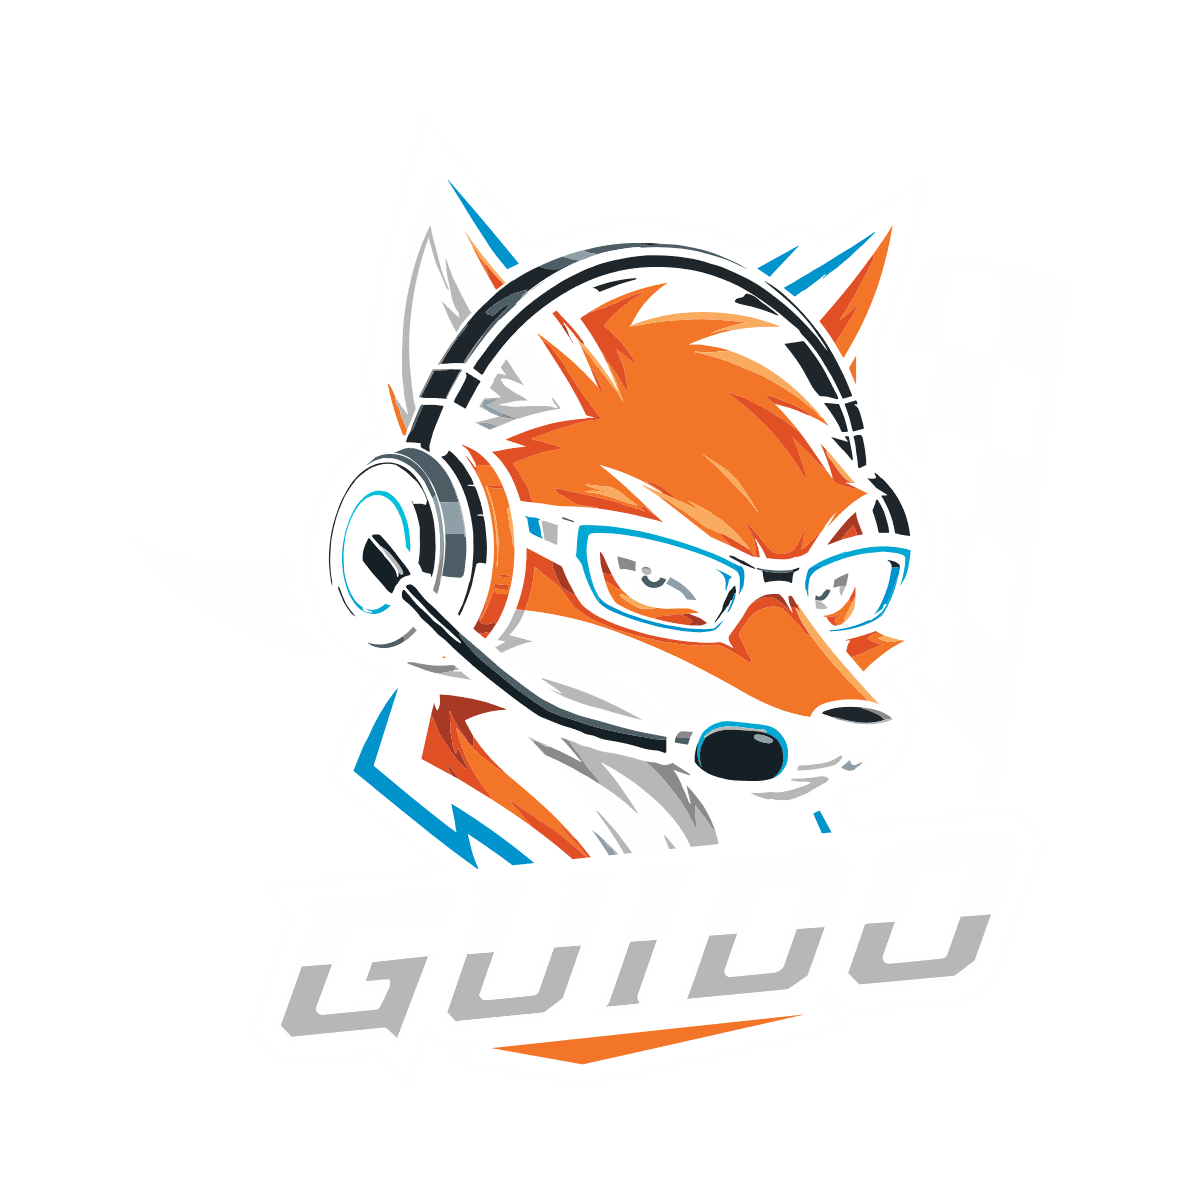
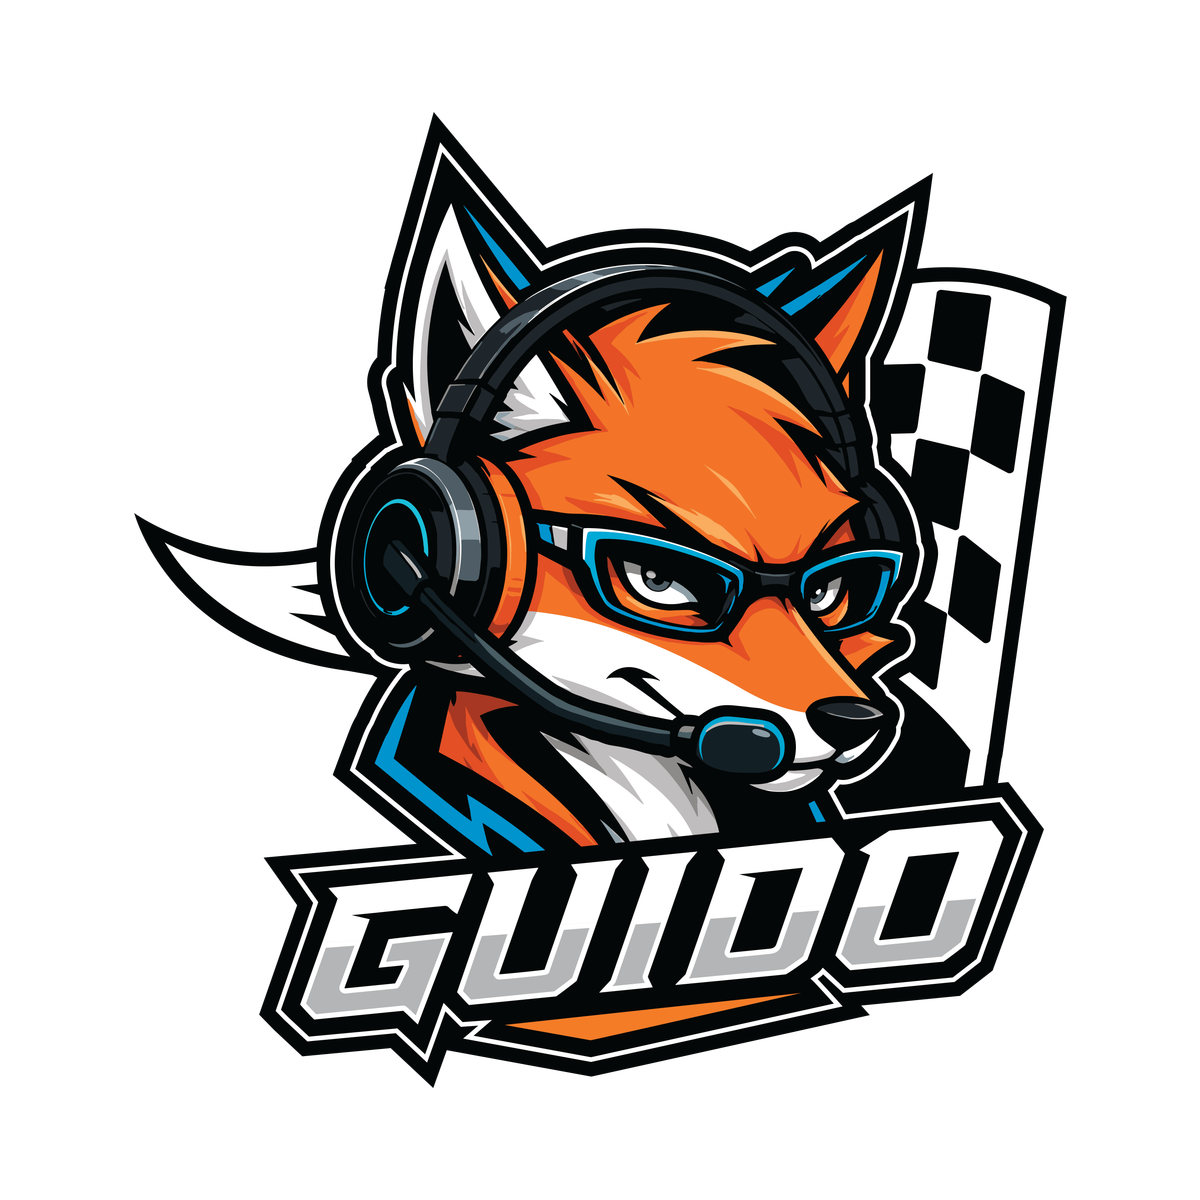
fix(website): swap the retired mark in the Guido embed cards
The OG images for the product page and the launch post still carried
the old fox mark and the pale grey wordmark. Both keep their original
1200x1200 transparent artwork; only the logo changes, to the lockup
used at the top of the product page, scaled to the same footprint.

The post's front matter goes back to 1200x1200 with it.

Changed region(s): [[0.0925, 0.0925, 0.8942, 0.925]]

diff --git a/website/src/writing/meet-guido.md b/website/src/writing/meet-guido.md
@@ -9,8 +9,8 @@ tags:
   - launch
   - sim-racing
 image: /assets/writing/meet-guido.png
-image_width: 2400
-image_height: 1260
+image_width: 1200
+image_height: 1200
 ---
 
 Real life race drivers always have someone on the radio. A race engineer
